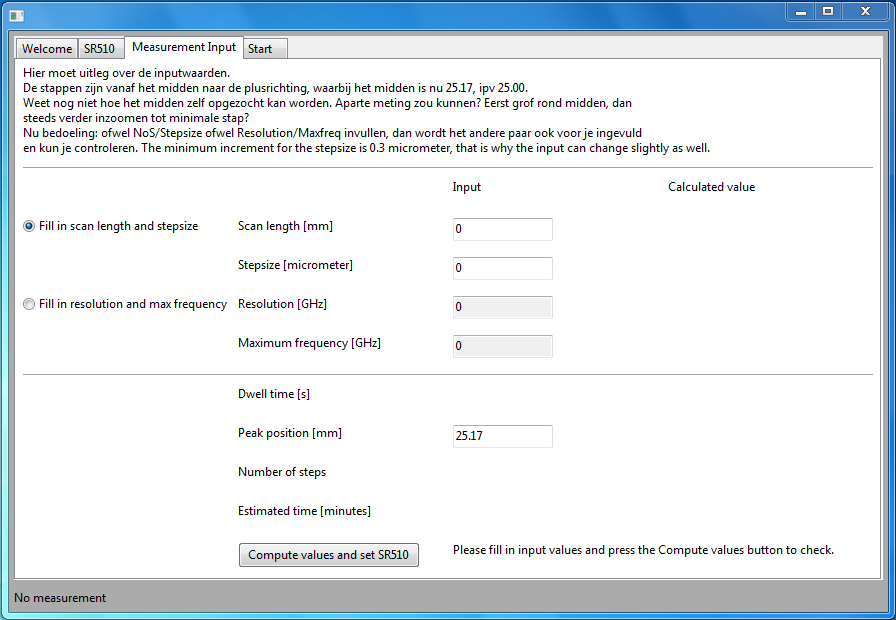
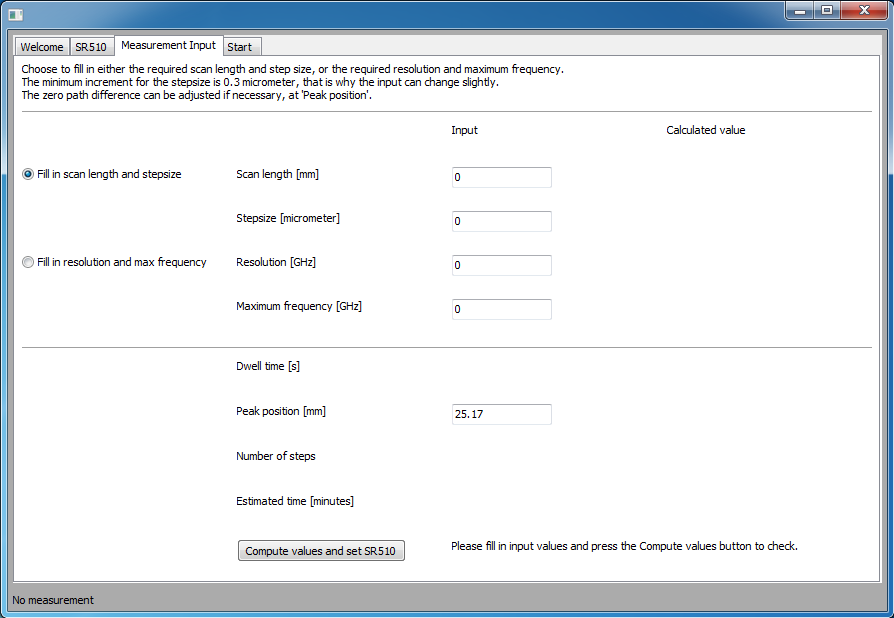
29 aug hopelijk staat alles erin nu

diff --git a/improvements.tex b/improvements.tex
@@ -1,13 +1,28 @@
 %%%%%%%%% Further Work %%%%%%%%%
 
 \section{Possible Improvements}
-\begin{itemize}
-\item inhoudelijk: fast scan. wat heb ik tot nu toe gedaan, en waar wil ik heen. Was toch wel lastig.
-\item in de code: in het gui-gedeelte: het plotten uitdrukken in de plotmethodes die ik gemaakt heb, ipv dat stukje code `opnieuw' uit te werken.
-\item in de code: tests toevoegen om alle mogelijke manieren van afronden (bijv) te kunnen controleren en dus zeker weten dat dat stukje code doet wat je wilt dat het doet.
-\item check in de code of de plaatjes eenheden op de assen meekrijgen. anders is dat een fantastische improvement. (check dat doet het)
-\item nog meer de GUI loskoppelen van het data verwerken, vooral in het opslaangedeelte. Dat had een aparte klasse moeten worden.
-\end{itemize}
+
+I have created a working program for the CRIMI that takes measurements with the step-integrate method. This introduces waiting time, which can add up to hours for a precise measurement. To facilitate these kinds of measurements, a fast scan method could be implemented.
+
+\subsection{Fast Scan}
+Ideally with the fast scan method the linear stage moves between two specified end points and sends out a trigger pulse when a measurement should be made. At that moment it knows its position and this is sent to the computer, along with the voltage reading from the read-out device. In this way the same amount of data points can be acquired in much less time than is needed for the step integrate method. Even though this data is less precise, with these many more data points it does not matter much.
+
+I started working on this, but have not yet managed to synchronize the stage and the read-out device, which is essential to make this method work. In this setup the read-out device was the Agilent 34401A multimeter. The controller for the stage can send these trigger pulses, but the multimeter side does not yet react to these pulses.
+
+\subsection{Improvements to Code}
+Even though the step-integrate program works, this does not mean that the code is perfect. In the class for the GUI (\verb!Frame1!) a few too many lines which should be in a new class slipped in. Especially where the different data files are saved, the GUI code and processing code are too much mingled. This saving process should be completely separated from the GUI.
+
+In the same way in the GUI code the plotting during the measurement is done with different code than the plotting that is done during saving. This could be cleaned up by refactoring this part of the code.
+
+In the \verb!Parameters! class some parameters are converted into different parameters. I tested the correctness by hand for the edge cases I could think of, but it would be better to write a unit test that can do this every time a small change is made in the code. 
+
+
+%\begin{itemize}
+%\item inhoudelijk: fast scan. wat heb ik tot nu toe gedaan, en waar wil ik heen. Was toch wel lastig.
+%\item in de code: in het gui-gedeelte: het plotten uitdrukken in de plotmethodes die ik gemaakt heb, ipv dat stukje code `opnieuw' uit te werken.
+%\item in de code: tests toevoegen om alle mogelijke manieren van afronden (bijv) te kunnen controleren en dus zeker weten dat dat stukje code doet wat je wilt dat het doet.
+%\item nog meer de GUI loskoppelen van het data verwerken, vooral in het opslaangedeelte. Dat had een aparte klasse moeten worden.
+%\end{itemize}
 
 %14:03 <marten> of alleen al iets wat dan specifiek "acceptatietest" heet: sluit 
 %               alles aan, op een bepaalde (simpelste) configuratie (bijv niet 

diff --git a/gui.tex b/gui.tex
@@ -1,9 +1,7 @@
 %%%%%%%%% NEW SECTION: GRAPHICAL USER INTERFACE %%%%%%%%%
 
 \section{Graphical User Interface}
-\begin{itemize}
- \item grafische user interface! wx, wx-python, wat gebeurt er in de code van de interface en hoeveel is het door elkaar gegaan met het programma zelf? wat zit er in de interface verwerkt, wat kan het programma doen?
-\end{itemize}
+The graphical user interface, or GUI, is the part of the program where the user interacts with the software. \verb!wxPython! and \verb!wxFormbuilder! were used to make the GUI. In it the user can define the requirements for the measurement and the program will then compute the scan length and stepsize which are needed to meet the requirements.
 
 \subsection{Walkthrough}
 
@@ -21,7 +19,7 @@ To start the program, click the icon or in the command window go to the correct 
 
 Figure \ref{fig:gui1} shows the welcome screen with a short explanation on how to use this program. For the longer explanation, please read on.
 
-\subsubsection{Setting the SR510 Lock In Amplifier}
+\subsubsection{Setting the SR510 Lock In Amplifier}\label{subsub:lockin}
 
 \begin{figure}[!ht]
  \begin{center}
@@ -62,9 +60,9 @@ The zero bias point is experimentally found to be at a distance of 25.17 cm from
 
 In the last frame, figure~\ref{fig:gui4}, the measurement can be started by pressing the `Start' button. In this frame two plots are updated continually: the interferogram as measured in the upper window, and the Fourier transform with a Hann apodization function in the lower window. These can be used to track the progress of the measurement. If necessary, the measurement can be stopped by pressing the `Abort' button.
 
-In the grey band under every frame the status is given. This can be `No measurement', `Measurement started', or 'Measurement aborting'. After a succesful measurement, the status will go automatically from `Measurement started' to `No measurement'.
+In the grey band under every frame the status is given. The possibilities are `No measurement', `Measurement started', 'Measurement aborted', or `Measurement finished'. After a succesful measurement, the status will stay at `Measurement finished', and a new measurement can be started.
 
-Saving is done by pressing the `Save' button. All files are saved with the exact time and date from when the measurement was started in the name; this prevents the possibility of overwriting earlier measurements.
+Saving is done by pressing the `Save' button. All files are saved with the exact time and date from when the measurement was started in the name; this prevents the possibility of overwriting earlier measurements. Three plots are saved as \verb!png!: the original interferogram, the Fourier transformed data without a windowing function and the Fourier transformed data with a Hann apodization function. These data points are also saved in two \verb!csv! files, one with the original data, and one with the transformed data. Lastly a textfile with the parameters used in the measurement is saved.
 
 \begin{figure}[!ht]
  \begin{center}
@@ -73,8 +71,3 @@ Saving is done by pressing the `Save' button. All files are saved with the exact
   \label{fig:gui4}
  \end{center}
 \end{figure}
-
-\subsubsection{Examples}
-\begin{itemize}
- \item Hier voorbeelden van wat er uit zo'n measurement komt, wat je kunt opslaan.
-\end{itemize}

diff --git a/introduction.tex b/introduction.tex
@@ -3,7 +3,7 @@
 \section{Introduction}
 The CRIMI (ChRIs $\&$ MIchelson) is an infrared Fourier transform spectrometer, made by Chris de Jonge, under supervision of Dr. Andrey Baryshev. The spectrometer is designed to be used in a vacuum, as water molecules and other abundant molecules in the atmosphere absorb large parts of the infrared spectrum.
 
-The goal of this internship was to write software to guide the linear stage in the CRIMI in making measurements, design a graphical user interface for easy user access and do some data processing on the acquired data: fast Fourier transforms and windowing. As a result, I have written a program in Python that automatically takes a complete measurement with this spectrometer. The program takes scan length and stepsize, or equivalent resolution and maximum frequency, as input, and outputs the raw data in \verb!csv! format.
+The goal of this internship was to write software to guide the linear stage in the CRIMI to make measurements, design a graphical user interface for easy user access and do some data processing on the acquired data: fast Fourier transforms and windowing. As a result, I have written a program in Python that automatically takes a complete measurement with this spectrometer. The program takes scan length and stepsize, or equivalent resolution and maximum frequency, as input, and outputs the raw data in \verb!csv! format.
 
 %Doe hier ook een plaatje van een FTS (kun je van WIKIPEDIA halen). doel van je stage was:
 %aansturing van linear stage
@@ -41,6 +41,10 @@ with $i$ the unit imaginary number. However because all wavelengths produce cosi
 with $F(\tilde{\nu})$ the power of the source as a function of wavenumber or frequency, and $f(\delta)$ the power as a function of path length difference.
 
 Because of this Fourier transform and $\tilde{\nu} = \frac{1}{\delta}$, a longer path length for the measurement causes a higher resolution, and a smaller stepsize gives a higher highest frequency.
+
+In the software this computation is done by taking the fast Fourier transform, an algorithm which uses a list of equally spaced samples of some periodic function to compute the Fourier transform and its inverse. Therefore it is necessary to take measurements which are equally spaced, in this case in distance.
+
+These kind of algorithms assume that the measured range is an integer multiple of periods, which can never be achieved for broadband measurements. To compensate for the errors introduced by this assumption, a windowing or apodization function can be added. This function smoothes out the measurements to zero at the edges of the range, which minimizes these effects. There are different windowing functions, which can all be used after the measurements have been made and before the Fourier transform is done. In this program only the Hann apodization function has been added, as it is easy to include use other windowing functions on the saved interferogram data.
 
 \begin{figure}
  \begin{center}

diff --git a/stepintegrate.tex b/stepintegrate.tex
@@ -4,7 +4,17 @@
 
 %Geef hier een blokdiagram van je programma, waarin aangegeven wordt hoe de data wordt ingevoerd, hoe de scan wordt uitgevoerd en hoe de data storage en processing (FFT, WIndowing, complex FFT?) wordt gedaan. Ter verduidelijking van de processing zou je een dummy interferogram (b.v. een top-hat) door je data processing kunnen sturen , om aan te geven wat het effect van de windowing is (en evt. het effect als je niet een correcte zero path hebt)
 
-The code consists of a few different classes that talk to the hardware, or do measurements with the returned parameters. The classes \verb!C876_160!, \verb!SR510!, and \verb!EthernetAdapter! do the interaction with the hardware, with the commands as dictated in the corresponding manuals. The classes \verb!Parameters!, \verb!Plotting!, and \verb!Fourier! interact with the data that comes from the instruments. \verb!ReadoutSession! does the actual measurements, and a \verb!NepSession! has been made to test the rest of the code without having to use the actual hardware. The code comes together in the class \verb!Frame1!, where the different actions are coupled to the buttons in the GUI. This class also makes use of the file \verb!gui_stepintegrate.py!, which is the code for the GUI as generated by wxFormbuilder. See also figure~\ref{fig:blokdiagram}.
+The measurements are made with the following method:
+
+\begin{enumerate}
+ \item The linear stage takes a step.
+ \item The program waits for the duration of $3\times$ dwelltime as set on the lock in amplifier (see section~\ref{subsub:lockin}).
+ \item The voltage is measured.
+\end{enumerate}
+
+This means that every time a data point is acquired, the program has to be idle to let the lock in amplifier settle. This is called the step-integrate method.
+
+The code consists of a few different classes that talk to the hardware, or do measurements with the returned parameters. The classes \verb!C876_160!, \verb!SR510!, and \verb!EthernetAdapter! do the interaction with the hardware, with the commands as dictated in the corresponding manuals. The classes \verb!Parameters!, \verb!Plotting!, and \verb!Fourier! interact with the data that comes from the instruments. \verb!ReadoutSession! does the actual measurements, and a \verb!NepSession! has been made to test the rest of the code without having to use the actual hardware. The code comes together in the class \verb!Frame1!, where the different actions are coupled to the buttons in the GUI. This class also makes use of the file \verb!gui_stepintegrate.py!, which is the code for the GUI as generated by wxFormbuilder. See also figure~\ref{fig:blokdiagram} for an overview.
 
 
 \begin{figure}[h!tb]

diff --git a/report.tex b/report.tex
@@ -21,14 +21,14 @@
 \maketitle
 
  \begin{abstract}
- Abstract follows.
+ For the `FIT-stage' (small internship) I have made software for a Fourier transform spectrometer. This is a stand-alone program which works with the step-integrate method: each step of the stage is followed by dwell time and a measurement, after which another step is taken. Some work has been done involving the fast scan method, however, most of this remains future work.
  \end{abstract}
 
 \input{introduction}
 \input{stepintegrate}
 \input{gui}
 \input{improvements}
-\input{codedescription}
+%\input{codedescription}
 
 \printbibliography
 
